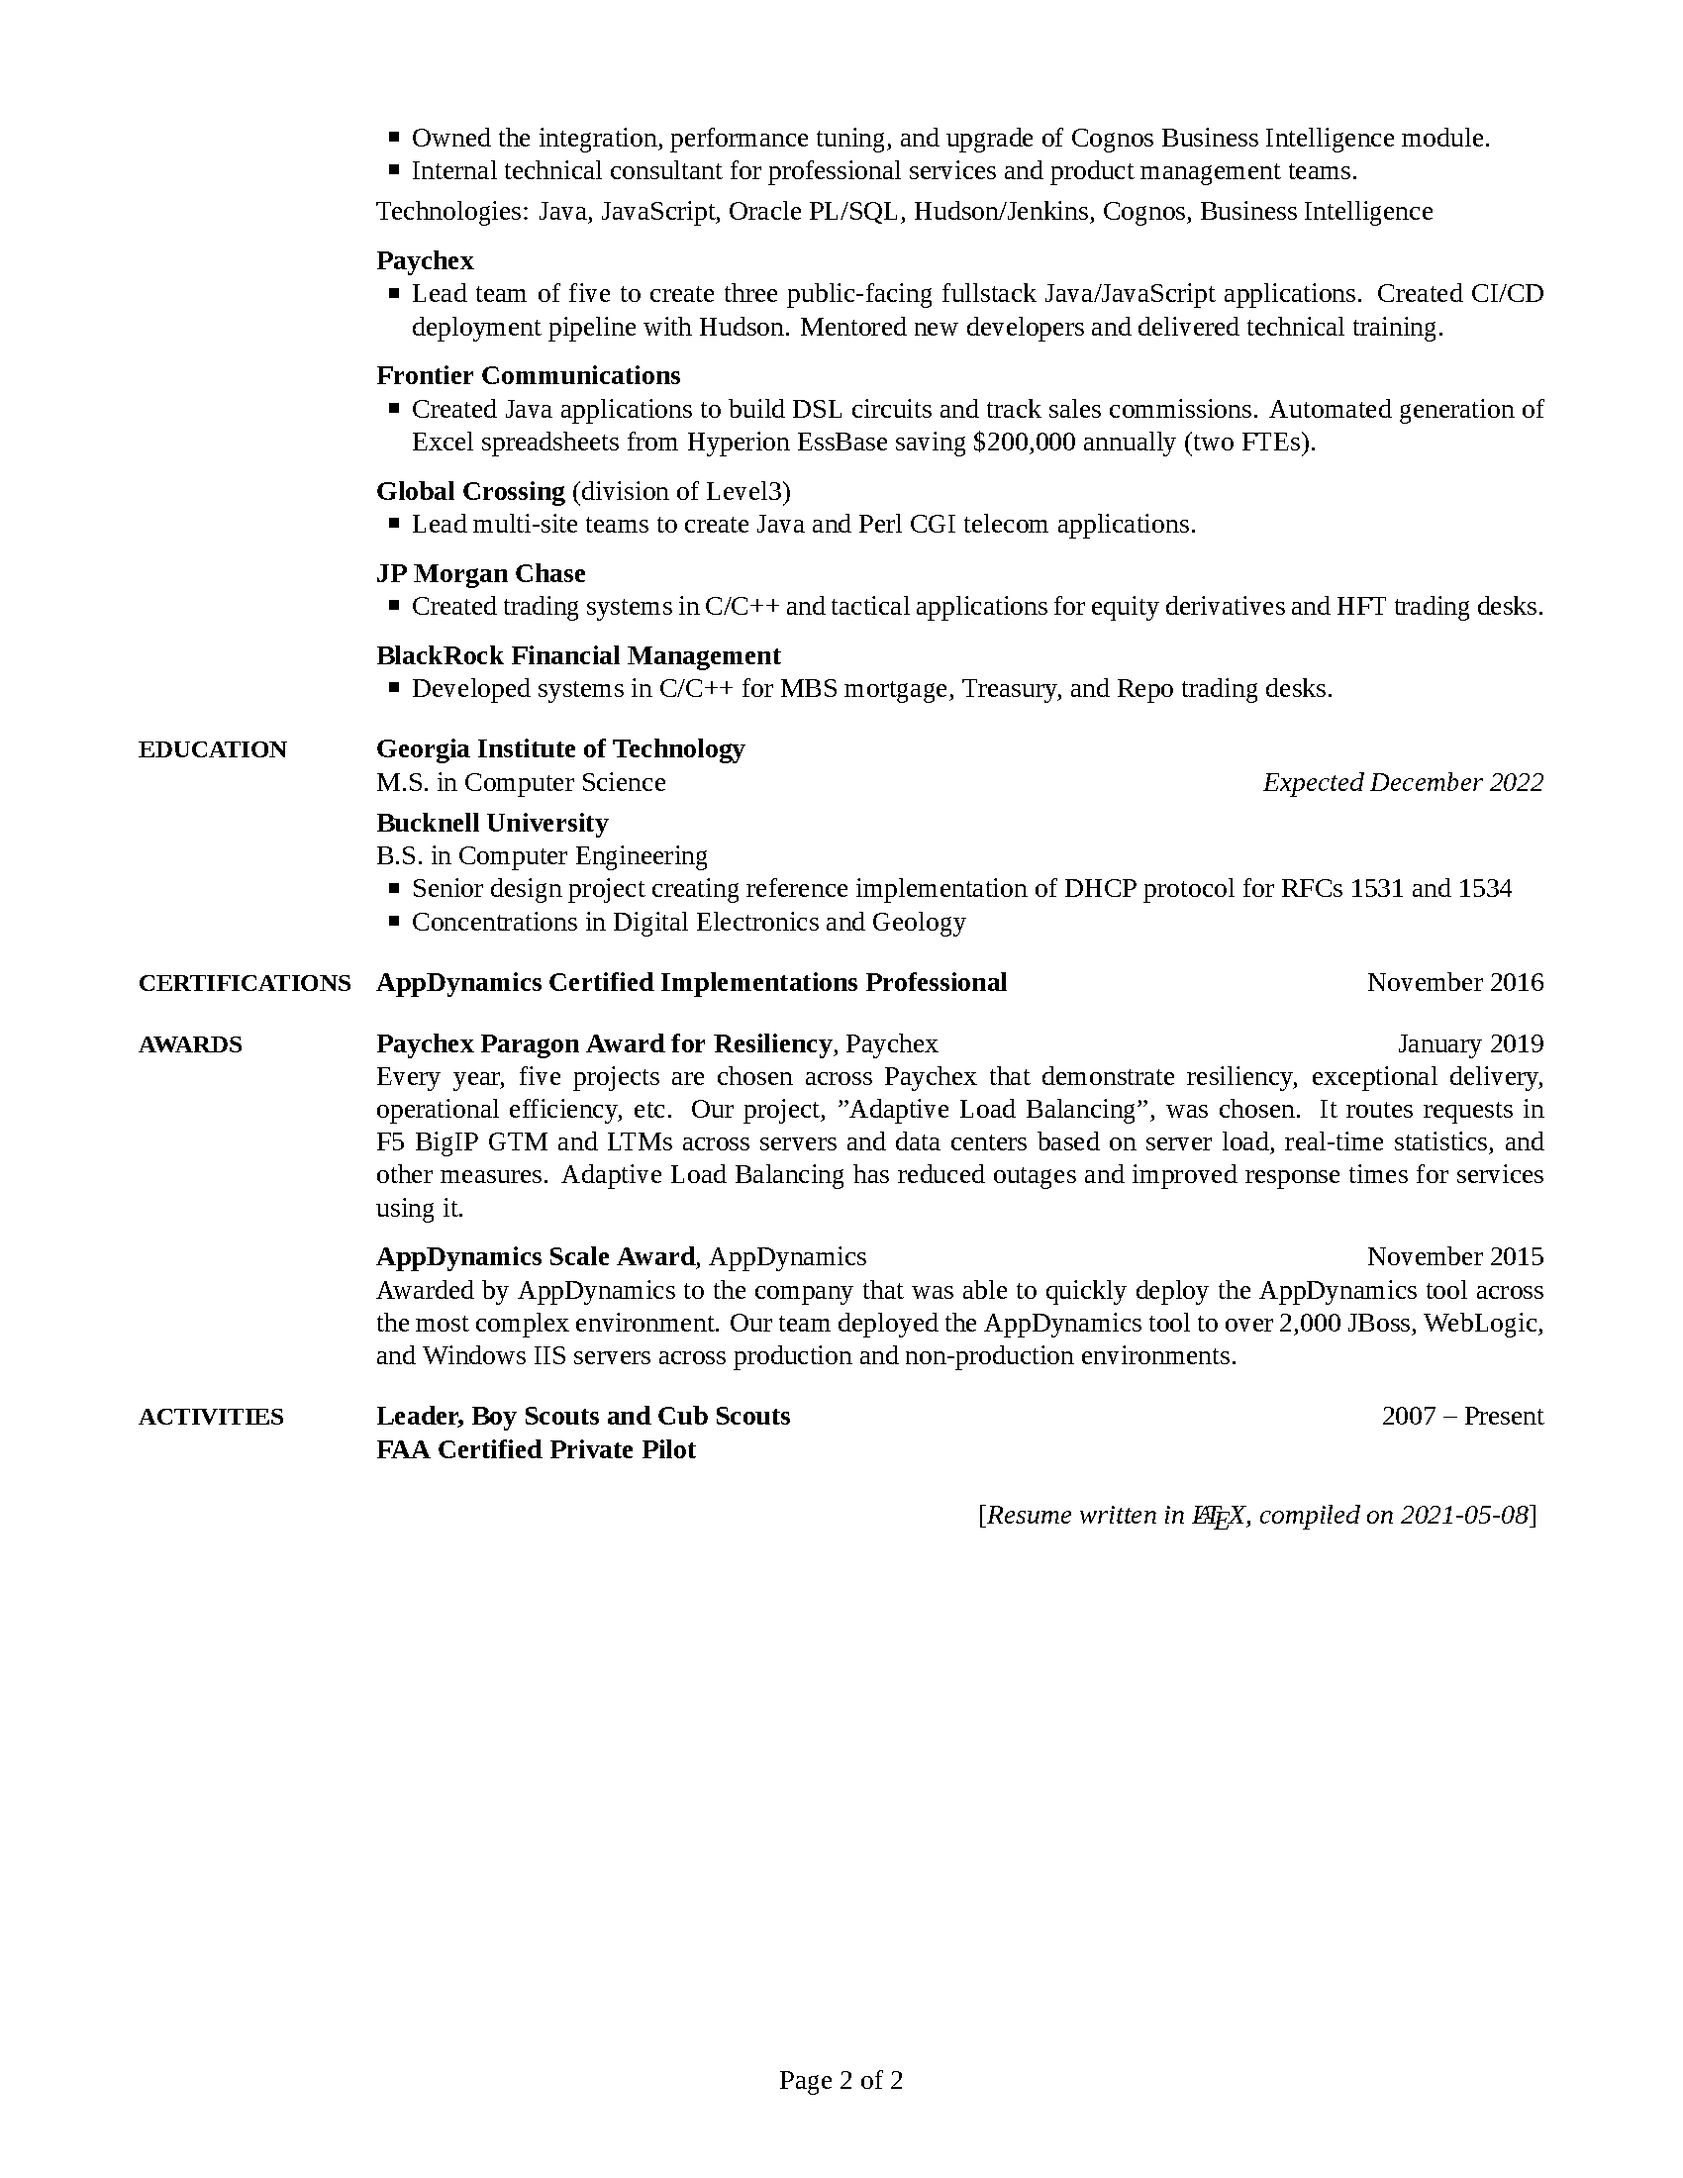
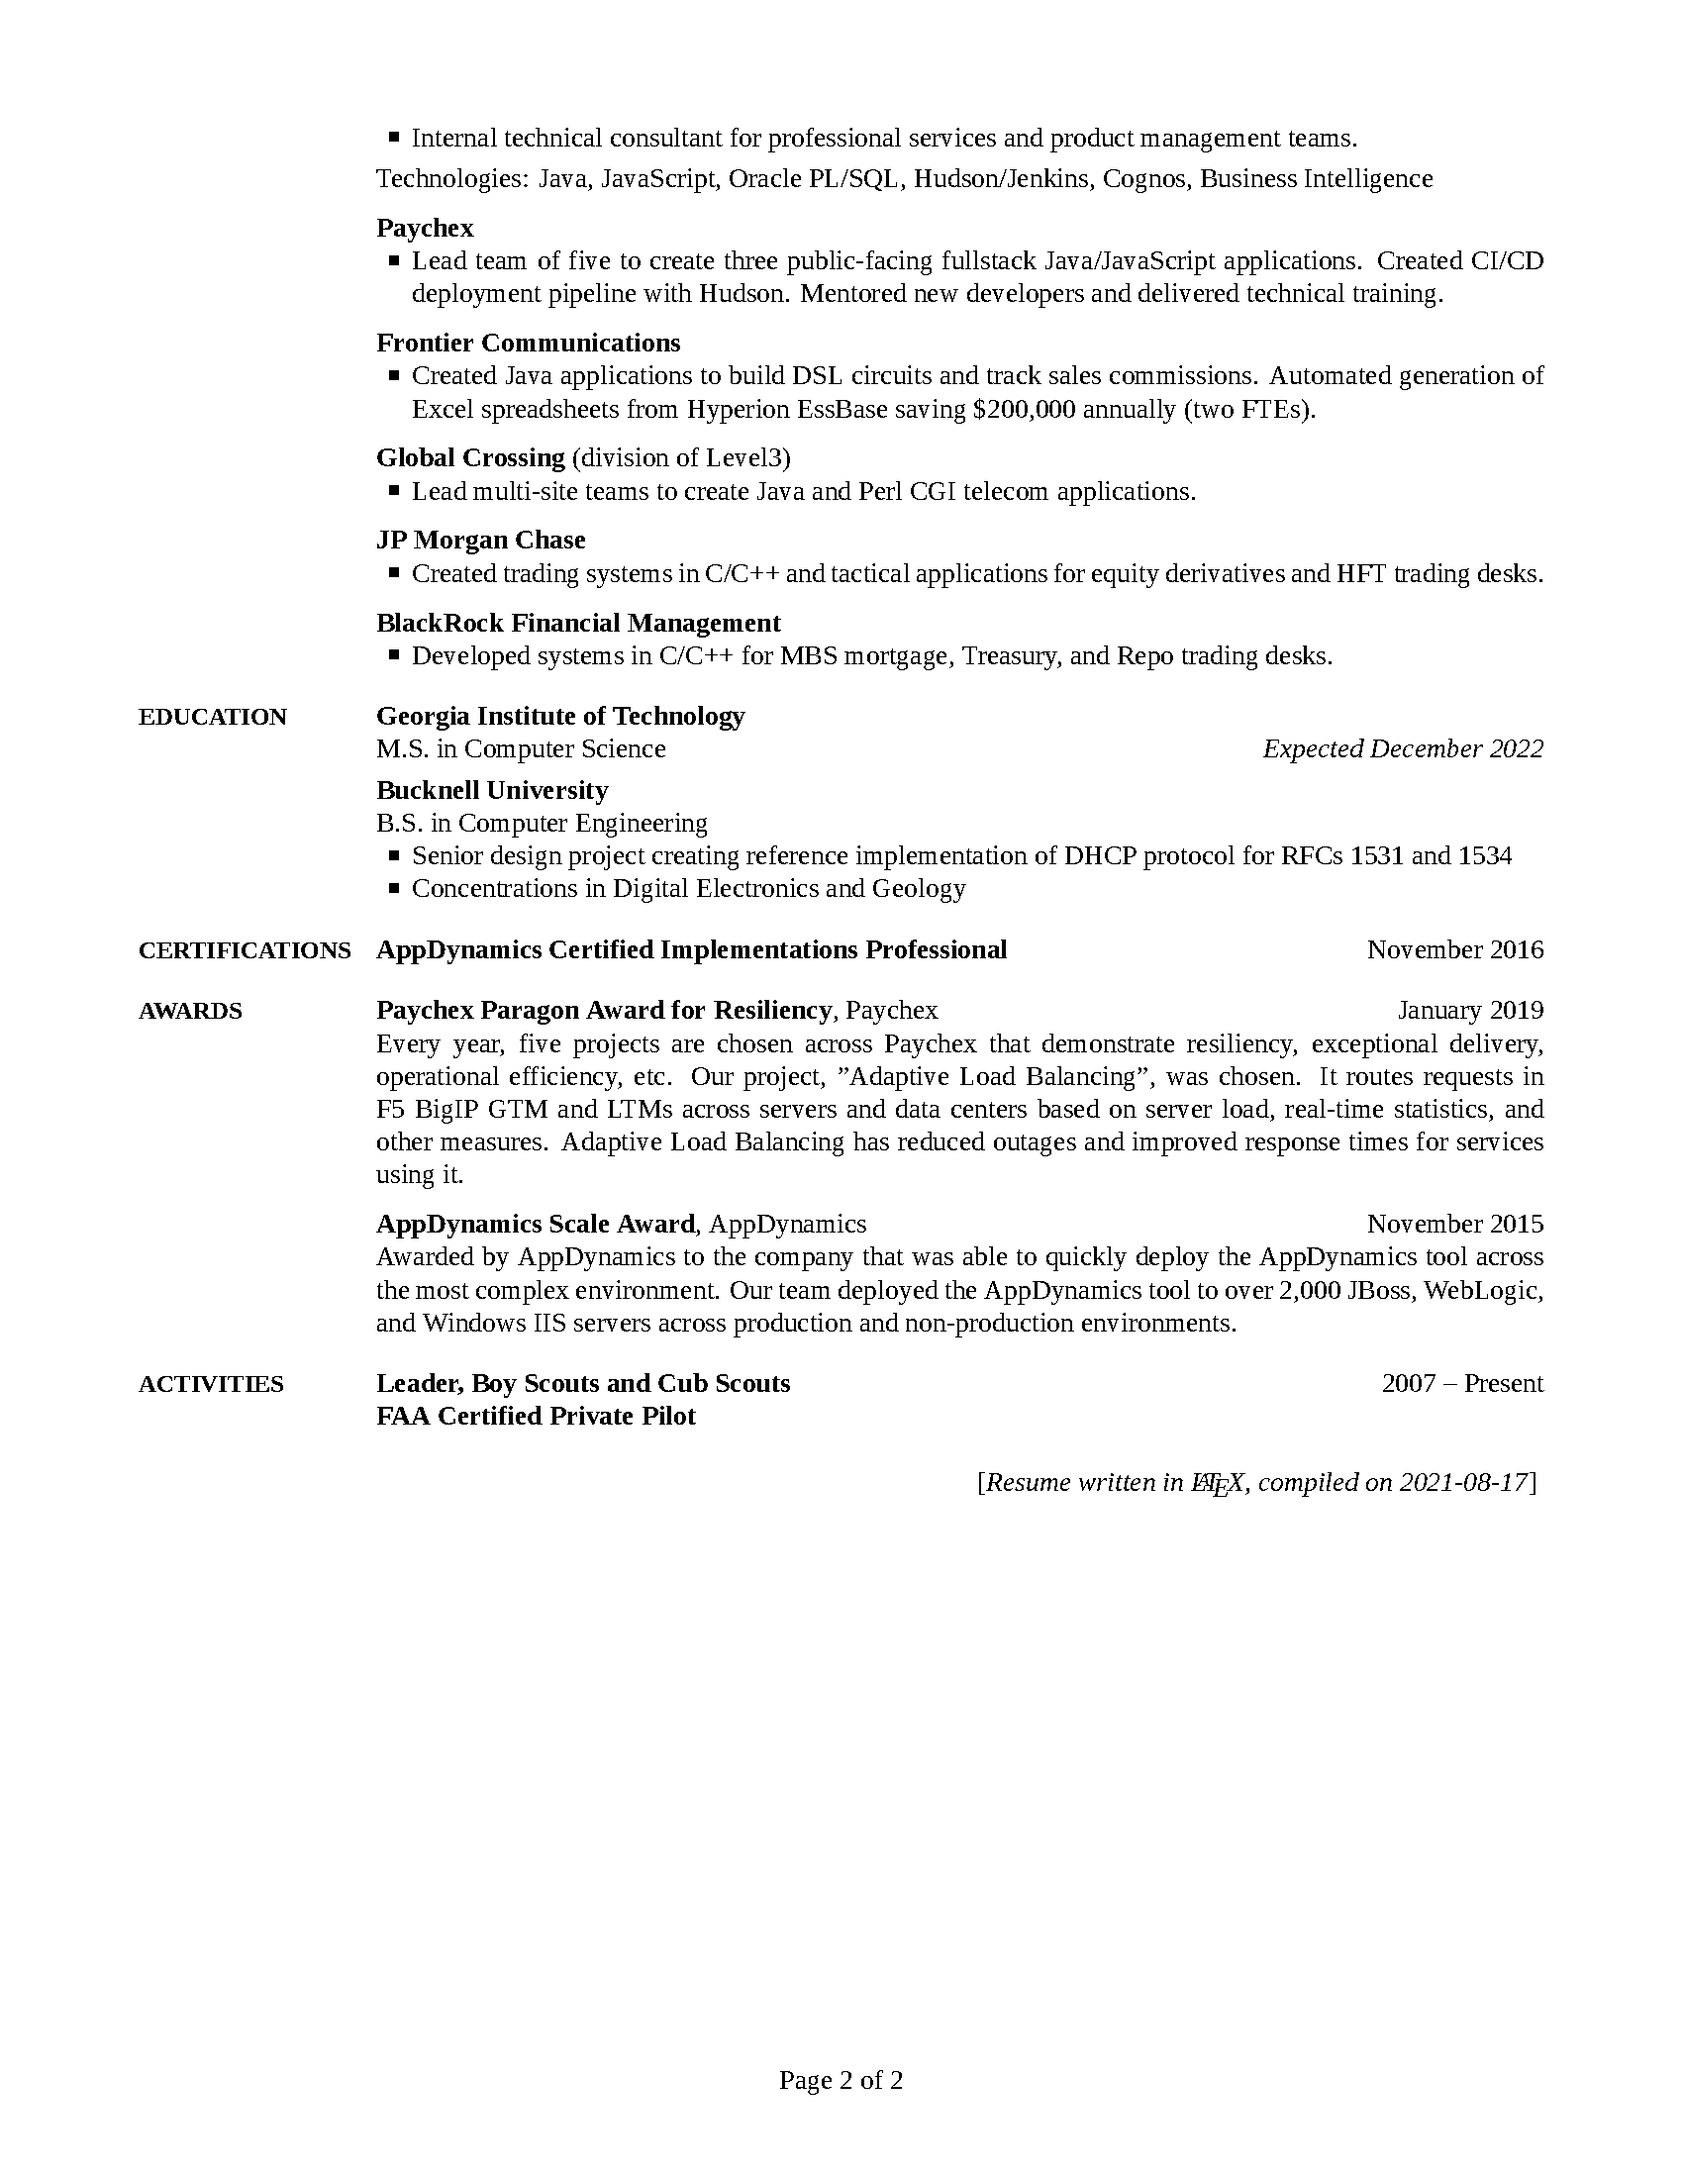
Make Marqeta "prior" and move below RIT adjunct

diff --git a/Ed_Griebel_CV.tex b/Ed_Griebel_CV.tex
@@ -120,33 +120,6 @@ Selected expertise: Java, Python, J2EE/JavaEE, MySQL, SQL, PL/SQL, JavaScript, J
 Work Experience}
 {Professional Work Experience}
 {PDF:ProfessionalWorkExperience}
-\Entry
-\href{https://www.marqeta.com}
-{\textbf{Marqeta Inc.}}
-\hfill
-\DatestampYM{2020}{05} -- Present
-
-Lead Software Engineer
-\ifLOCATION
-\hfill
-Rochester, New York
-\fi
-
-\begin{Detail}
-\BulletItem
-Work closely with peer developers, product owners, and operations teams to create a greenfield system to support a new credit card product including processing, accounting, statementing, and user-level APIs.
-\BulletItem
-Collaborate on creating processes and procedures to support development and maintenance activities.
-\BulletItem
-Mentor, guide, and be an example for other developers on the team for designs and general software engineering practices.
-
-
-\Gap
-Technologies: Java, MySQL, Spring Boot, Docker, jOOQ
-
-\end{Detail}
-
-\BigGap
 
 \Entry
 \href{http://ist.rit.edu/}
@@ -171,6 +144,32 @@ Previous courses taught include undergraduate courses in Java and DBMS/SQL.
 \end{Detail}
 
 \BigGap
+\Entry
+\href{https://www.marqeta.com}
+{\textbf{Marqeta Inc.}}
+\hfill
+\DatestampYM{2020}{05} -- \DatestampYM{2021}{07}
+
+Lead Software Engineer
+\ifLOCATION
+\hfill
+Rochester, New York
+\fi
+
+\begin{Detail}
+\BulletItem
+Work closely with peer developers, product owners, and operations teams to create a greenfield system to support a new credit card product including processing, accounting, statementing, and user-level APIs.
+\BulletItem
+Collaborate on creating processes and procedures to support development and maintenance activities.
+\BulletItem
+Mentor, guide, and be an example for other developers on the team for designs and general software engineering practices.
+
+
+\Gap
+Technologies: Java, MySQL, Spring Boot, Docker, jOOQ
+
+\end{Detail}
+
 \BigGap
 
 \Entry
